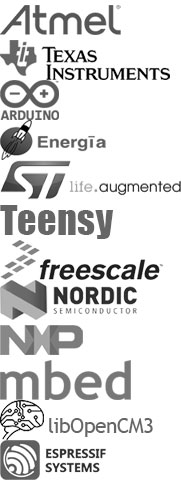
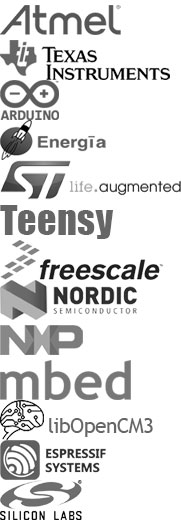
Version bump to 2.1.0 (issues #215, #219, #221, #225, #226)

diff --git a/app/views/home.html b/app/views/home.html
@@ -1,5 +1,5 @@
-<meta name="description" content="PlatformIO is a cross-platform code builder and the missing library manager (Atmel AVR & SAM, Espressif, Freescale Kinetis, Nordic nRF51, NXP LPC, ST STM32, TI MSP430 & Tiva, Teensy, Arduino, mbed, libOpenCM3, etc.)" view-head />
-<meta name="keywords" content="PlatformIO, embedded, atmel, arduino, msp430, stm32, teensy, mbed, builder, libraries, manager, library.json" view-head />
+<meta name="description" content="PlatformIO is a cross-platform code builder and the missing library manager (Atmel AVR & SAM, Espressif, Freescale Kinetis, Nordic nRF51, NXP LPC, Silicon Labs EFM32, ST STM32, TI MSP430 & Tiva, Teensy, Arduino, mbed, libOpenCM3, etc.)" view-head />
+<meta name="keywords" content="PlatformIO, embedded, atmel, arduino, espressif, msp430, silicon labs, efm32, stm32, teensy, mbed, builder, libraries, manager, library.json" view-head />
 
 <div class="jumbotron home">
   <div class="container text-center">
@@ -10,7 +10,7 @@
     </p>
     <p>
       <ul class="list-inline">
-        <li>Version <a href="http://docs.platformio.org/en/latest/history.html" target="_blank">2.0.2</a></li>
+        <li>Version <a href="http://docs.platformio.org/en/latest/history.html" target="_blank">2.1.0</a></li>
         <li>·</li>
         <li><i class="fa fa-github"></i> <a href="https://github.com/platformio/platformio" target="_blank">GitHub</a>
         </li>

diff --git a/app/index.html b/app/index.html
@@ -106,6 +106,7 @@
         <li><div class="brands brand-freescale"></div></li>
         <li><div class="brands brand-nordic"></div></li>
         <li><div class="brands brand-nxp"></div></li>
+        <li><div class="brands brand-siliconlabs"></div></li>
         <li><div class="brands brand-stm"></div></li>
         <li><div class="brands brand-teensy"></div></li>
         <li><div class="brands brand-ti"></div></li>

diff --git a/app/styles/main.css b/app/styles/main.css
@@ -347,6 +347,11 @@
   width: 108px;
 }
 
+.brand-siliconlabs {
+  background-position: 0 -480px;
+  width: 84px;
+}
+
 /* Miscellaneous */
 
 .fa-heart {
